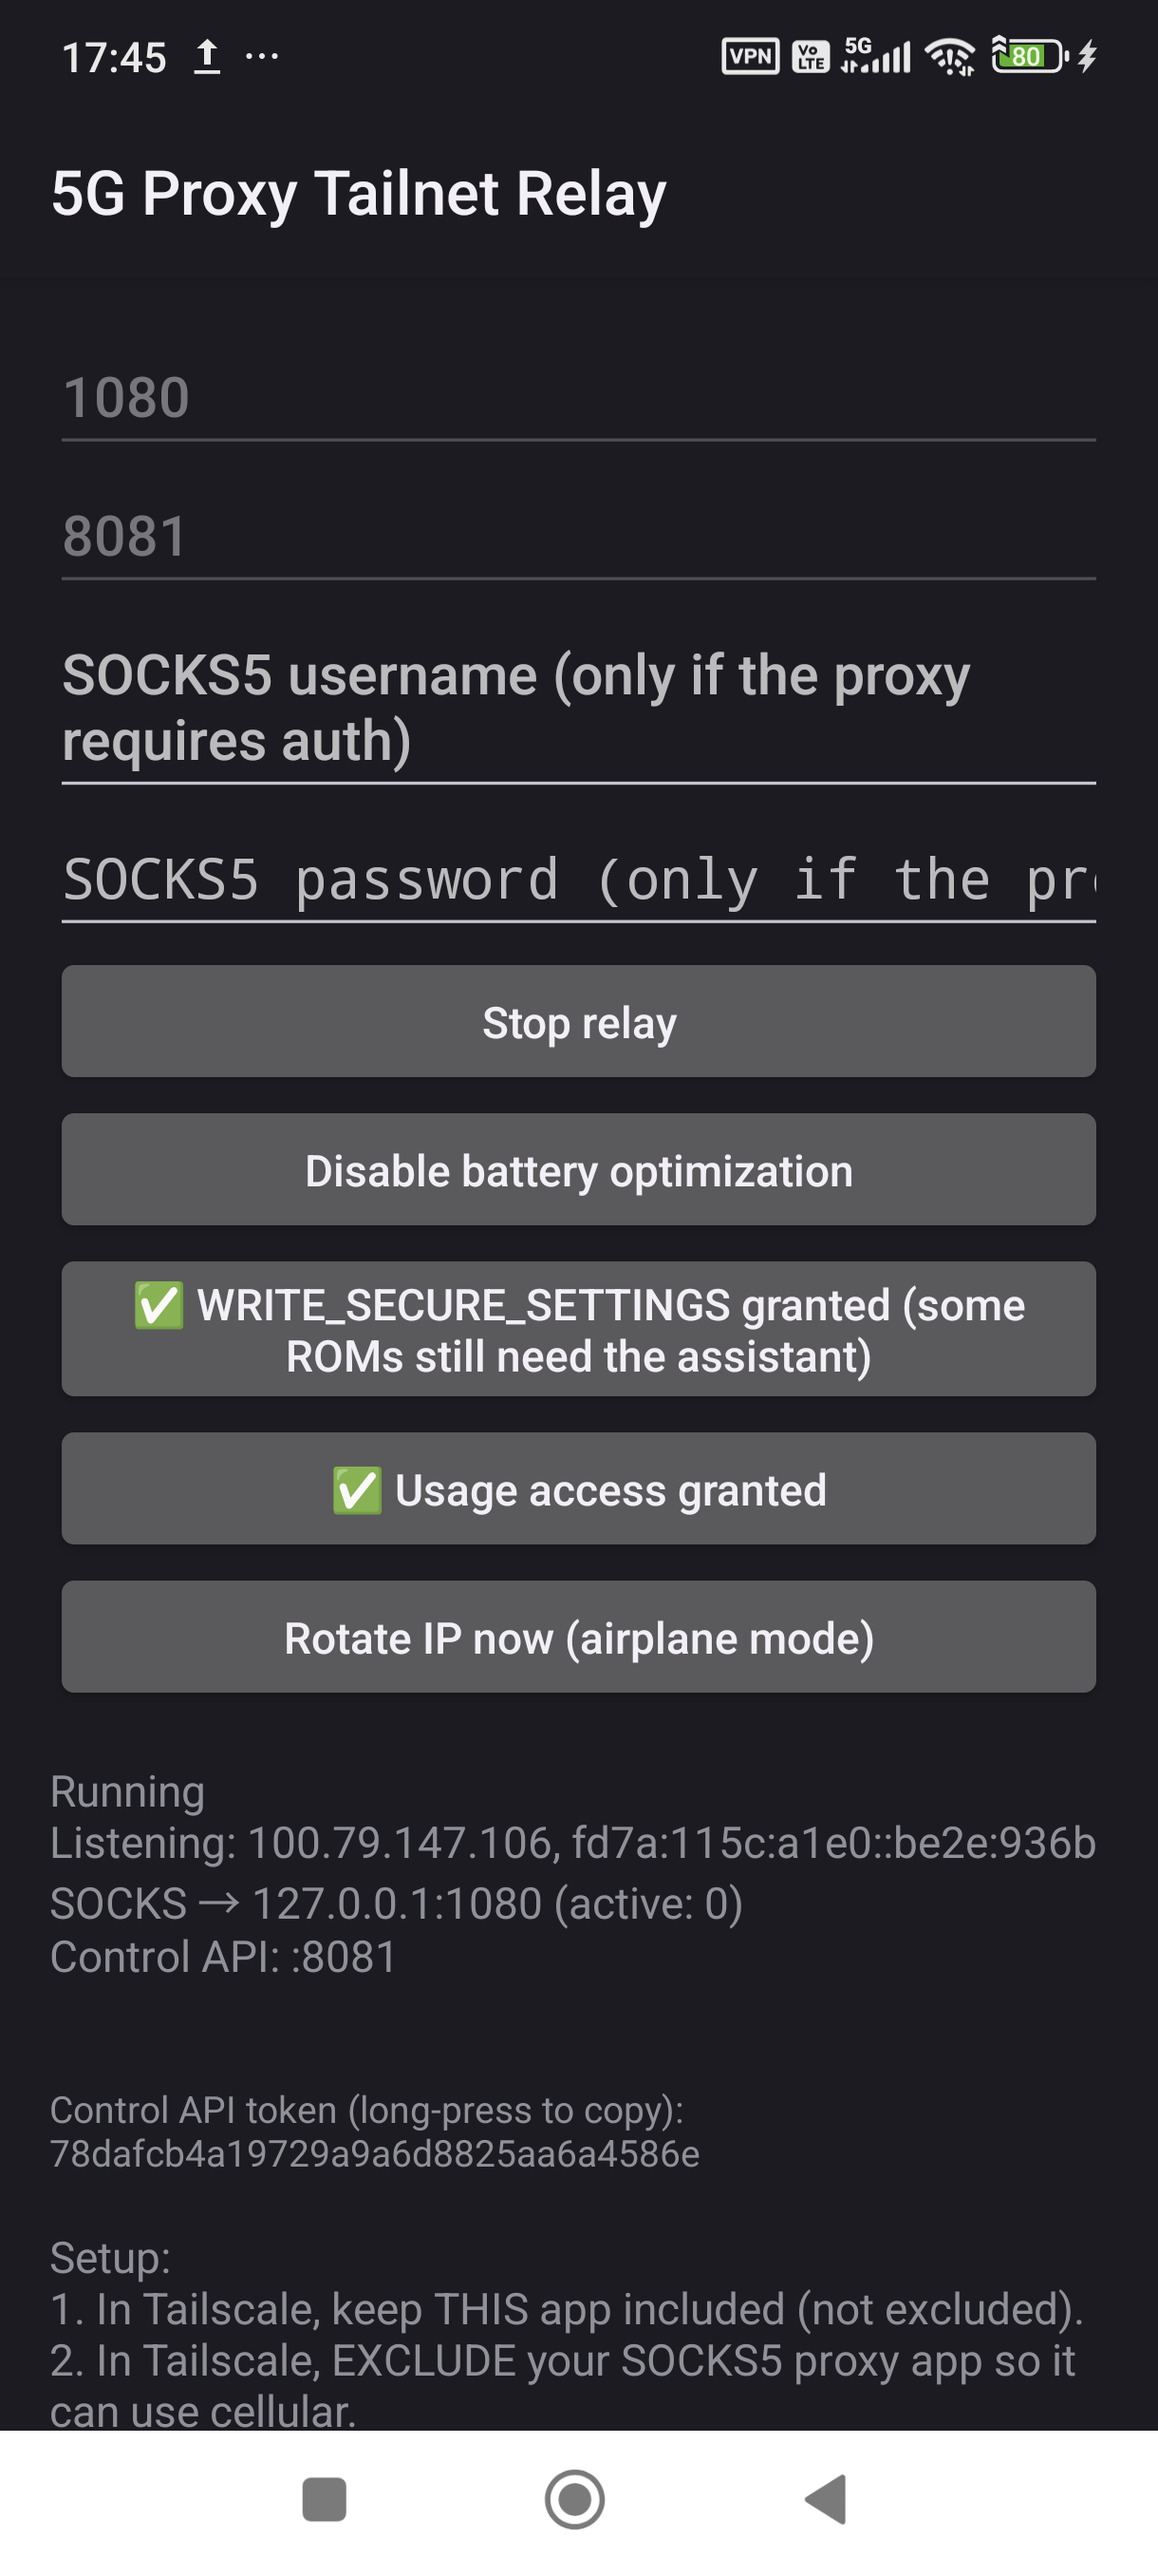
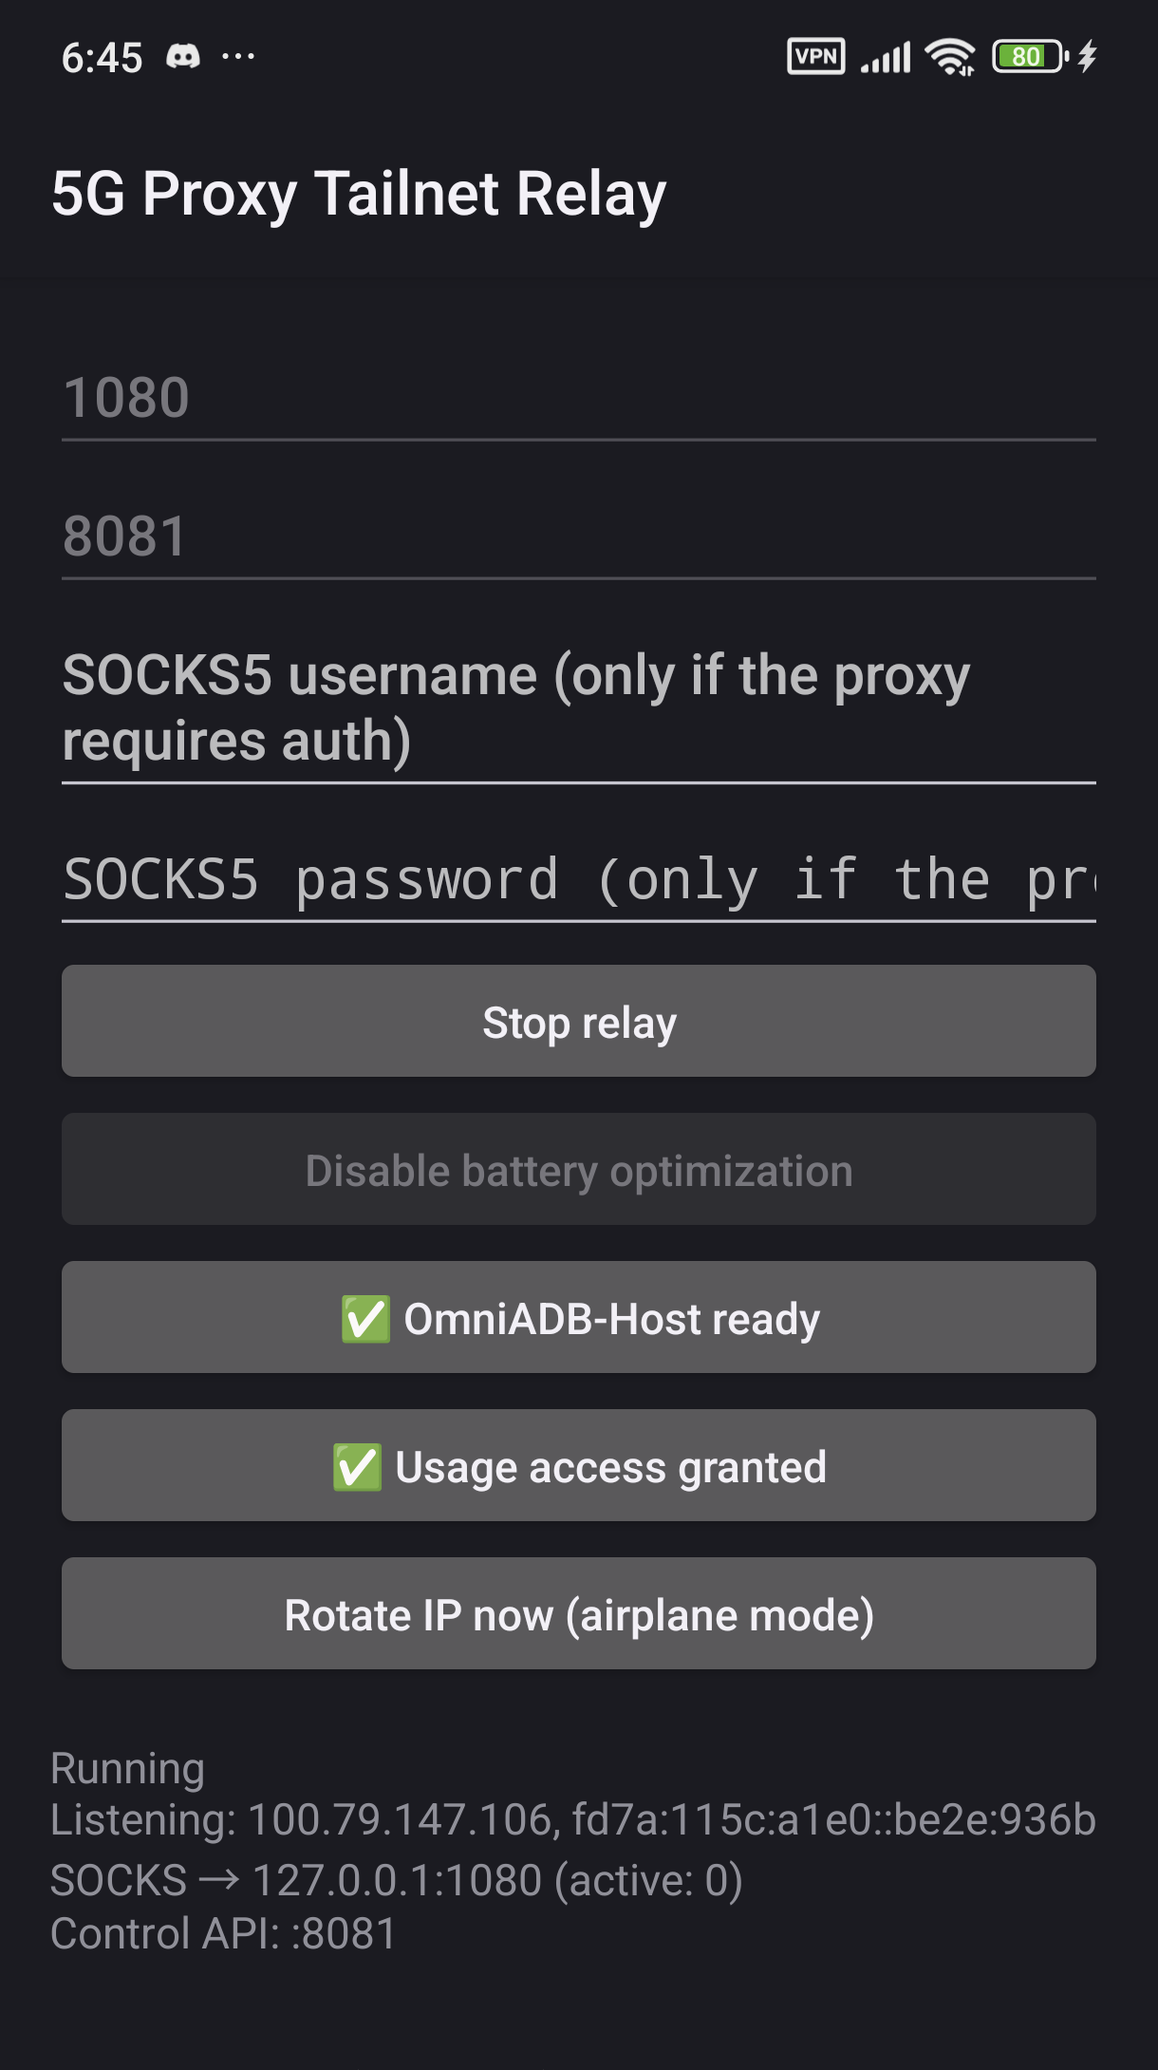
docs: 三語 README、實機截圖與 CI 建置流程
- README.md / README.zh-TW.md / README.ko.md 結構 1:1，三份都加上建議搭配 OmniADB-Host
- 換上小米 2412DPC0AG (Android 15) 的 1.2.3 實機截圖，真實 Listening 狀態
- 移除含舊控制 API 權杖的 2.png；截圖只保留狀態與按鈕區
- .github/workflows/build.yml：tag 觸發建置與發佈；未設 secrets 時只產 unsigned

diff --git a/README.ko.md b/README.ko.md
@@ -1,0 +1,113 @@
+# 5G Proxy — Tailnet Relay
+
+<p align="center">
+  <img src="fastlane/metadata/android/en-US/images/phoneScreenshots/1.png" width="320"
+       alt="릴레이 실행 중, Tailscale 주소에서 수신 대기">
+</p>
+
+<p align="center"><sub>스크린샷은 영어 UI 기준입니다. 앱 자체는 아직 한국어 UI를 제공하지 않습니다.</sub></p>
+
+Tailnet(Tailscale 또는 호환 클라이언트)에 연결된 어떤 기기에서든, 안드로이드 폰에서
+실행 중인 SOCKS5 프록시에 접속할 수 있게 해 주는 작은 컴패니언 앱입니다. 트래픽은
+집의 인터넷 회선이 아니라 폰의 **셀룰러** 회선으로 나갑니다.
+
+[5G Proxy Pro](https://github.com/tokyoxpa3/5G-Proxy-Pro)와 함께 쓰도록 만들어졌지만,
+업스트림은 폰에서 실행되는 **어떤** SOCKS5 프록시든 됩니다.
+
+## 왜 필요한가
+
+안드로이드의 per-app VPN은 UID 단위로 동작합니다. 폰에서 Tailscale 같은 클라이언트가
+돌고 있으면, 프록시 앱은 VPN에서 *제외*되어야 셀룰러 인터페이스로 나갈 수 있습니다.
+하지만 제외되는 순간 클라이언트의 `tun0`으로 들어오는 연결을 받을 수 없게 됩니다.
+
+Tailnet Relay가 그 빈자리를 채웁니다.
+
+```
+노트북 ──tailnet──▶ Relay (VPN 내부) ──127.0.0.1:1080──▶ 프록시 ──▶ 셀룰러
+```
+
+릴레이는 VPN 안에 남아 테일넷 주소에서 TCP를 받고, 프록시의 루프백 리스너로
+전달합니다. 두 앱은 각자의 UID를 유지하므로 프록시는 계속 셀룰러로 나가고, 트래픽은
+테더링 인터페이스를 거치지 않습니다.
+
+## 권장: OmniADB-Host와 함께 사용
+
+IP 로테이션을 쓰려면 [OmniADB-Host](https://github.com/tokyoxpa3/OmniADB-Host)를
+함께 설치하세요.
+
+없을 때 `/rotate`에는 두 가지 방법밖에 없습니다. 기본 디지털 어시스턴트를 넘겨주거나,
+`WRITE_SECURE_SETTINGS`에 의존하는 것인데 후자는 Android 15 이상에서 라디오를 끄지
+못합니다. OmniADB-Host가 있으면 릴레이는 고정된 네 가지 동작만 노출하는 좁은
+프로바이더(`airplane_on`, `airplane_off`, `grant_secure`, `ping`)를 호출합니다.
+덕분에 루트 없이, 어시스턴트를 빼앗지 않고, Wi-Fi도 끊지 않고 로테이션이 됩니다.
+
+OmniADB-Host는 범용 adb 셸이 아닙니다. 이 네 가지 메서드만 존재하고, 호출자 UID가
+이 앱의 패키지명과 일치해야 합니다. 설치되어 있지 않으면 릴레이는 조용히 나머지 두
+백엔드로 넘어갑니다.
+
+## 요구 사항
+
+- Android 8.0(API 26) 이상
+- 폰에 테일넷 클라이언트 (Tailscale, 또는 `100.64.0.0/10` /
+  `fd7a:115c:a1e0::/48`을 쓰는 호환 클라이언트)
+- 폰에서 SOCKS5 프록시가 수신 대기 중 (5G Proxy Pro는 기본값 `127.0.0.1:1080`)
+
+## 동작
+
+- 테일넷 주소에만 바인딩합니다(`tun*` + CGNAT 대역). 셀룰러나 LAN 인터페이스에는
+  절대 바인딩하지 않습니다.
+- TCP를 설정 가능한 로컬 SOCKS5 업스트림(기본 `127.0.0.1:1080`)으로 전달합니다.
+- 선택 사항인 HTTP 제어 API(`/status`, `/rotate`)를 제공하며, 베어러 토큰으로
+  보호합니다.
+- 선택 사항인 IP 로테이션: 비행기 모드를 전환해 모뎀이 다시 attach하도록 강제합니다.
+
+## 제한 사항
+
+- **TCP만 지원합니다.** 표준 UDP ASSOCIATE는 구현되어 있지 않아 QUIC, 일부 게임,
+  VoIP는 릴레이를 통과하지 못합니다. 유일한 UDP 경로는
+  [5G Proxy Client](https://github.com/tokyoxpa3/5G-Proxy-Client)가 쓰는 `0x04`
+  UDP-in-TCP 확장입니다.
+- 테일넷이 연결되어 있어야 하며, 폰은 항상 켜져 있고 신호가 있어야 합니다.
+- 모든 클라이언트가 폰의 셀룰러 IP 하나를 공유합니다.
+
+## IP 로테이션 백엔드
+
+`/rotate`는 다음 순서로 시도합니다.
+
+1. **OmniADB-Host** — 위에서 설명한 좁은 프로바이더. 우선 사용: 루트 불필요,
+   어시스턴트를 빼앗지 않음, Wi-Fi 유지.
+2. **`WRITE_SECURE_SETTINGS`** — 전환 중 Wi-Fi만 유지합니다. Android 15 이상에서는
+   라디오를 **전환하지 못합니다**.
+3. **기본 디지털 어시스턴트** — `ACTION_VOICE_CONTROL_AIRPLANE_MODE`. adb 없이
+   실제로 라디오를 전환할 수 있는 유일한 경로입니다.
+
+모든 시도는 기록된 설정값이 아니라 라디오 상태(`awaitRadio()`)로 검증합니다.
+
+## 제어 API
+
+```bash
+curl -H "Authorization: Bearer <token>" http://<tailnet-ip>:8081/status
+curl -H "Authorization: Bearer <token>" http://<tailnet-ip>:8081/rotate
+```
+
+토큰은 `?token=`으로도 전달할 수 있습니다. **토큰을 가진 사람은 폰을 네트워크에서
+끊을 수 있습니다.** 비밀로 취급하세요.
+
+## 빌드
+
+```bash
+./gradlew :app:assembleDebug
+```
+
+저장소 루트에 `keystore.properties`가 있을 때만 release 빌드에 서명합니다. 없으면
+서명되지 않은 APK가 출력됩니다.
+
+## 라이선스
+
+MIT — [LICENSE](LICENSE) 참고.
+
+## 크레딧
+
+릴레이는 원래 [@bokukpark](https://github.com/bokukpark) 님이
+[5G-Proxy-Pro#6](https://github.com/tokyoxpa3/5G-Proxy-Pro/pull/6)에서 기여했습니다.
+이 저장소는 그 히스토리와 저자 정보를 그대로 보존합니다.

diff --git a/README.md b/README.md
@@ -1,5 +1,10 @@
 # 5G Proxy — Tailnet Relay
 
+<p align="center">
+  <img src="fastlane/metadata/android/en-US/images/phoneScreenshots/1.png" width="320"
+       alt="Relay running, listening on a Tailscale address">
+</p>
+
 A small companion app that lets any device on your [Tailscale](https://tailscale.com)
 (or compatible) tailnet reach a SOCKS5 proxy running on an Android phone, so the
 traffic leaves through the phone's **cellular** connection instead of your home
@@ -25,6 +30,22 @@ The relay stays inside the VPN, accepts TCP on the tailnet address and forwards
 it to the proxy's loopback listener. The two apps keep separate UIDs, so the
 proxy keeps using the cellular exit and the traffic never touches the tethering
 interface.
+
+## Recommended: pair it with OmniADB-Host
+
+If you want IP rotation, install [OmniADB-Host](https://github.com/tokyoxpa3/OmniADB-Host)
+next to this app.
+
+Without it, `/rotate` has only two options: hand over your default digital
+assistant, or rely on `WRITE_SECURE_SETTINGS`, which cannot toggle the radio on
+Android 15 and newer. With OmniADB-Host installed, the relay calls a narrow
+provider that exposes four fixed actions — `airplane_on`, `airplane_off`,
+`grant_secure`, `ping` — so rotation works without root, without taking over the
+assistant, and without dropping Wi-Fi.
+
+OmniADB-Host is not a general adb shell: only those four methods exist, and the
+caller UID must match this app's package name. If the host is not installed, the
+relay silently falls back to the other two backends.
 
 ## Requirements
 
@@ -58,9 +79,8 @@ interface.
 
 `/rotate` tries the following, in order:
 
-1. **OmniADB-Host** — a narrow, fixed-action `ContentProvider`
-   (`ping`, `airplane_on`, `airplane_off`, `grant_secure`). The caller UID is
-   checked against this app's package name; it is not a general adb shell.
+1. **OmniADB-Host** — the narrow provider described above. Preferred: no root, no
+   assistant takeover, Wi-Fi stays up.
 2. **`WRITE_SECURE_SETTINGS`** — only keeps Wi-Fi alive during the toggle. On
    Android 15+ it does **not** switch the radio.
 3. **Default digital assistant** — `ACTION_VOICE_CONTROL_AIRPLANE_MODE`, the only

diff --git a/README.zh-TW.md b/README.zh-TW.md
@@ -1,5 +1,10 @@
 # 5G Proxy — Tailnet Relay
 
+<p align="center">
+  <img src="fastlane/metadata/android/zh-TW/images/phoneScreenshots/1.png" width="320"
+       alt="中繼執行中，在 Tailscale 位址上監聽">
+</p>
+
 一個小型的陪伴 App：讓 tailnet（Tailscale 或相容客戶端）上的任何裝置，連到手機上
 執行的 SOCKS5 代理，出口走手機的**行動網路**，而不是家裡的寬頻。
 
@@ -20,6 +25,19 @@ Tailnet Relay 就是補上這段：
 
 Relay 留在 VPN 內，在 tailnet 位址上接受 TCP，轉送到代理的 loopback 監聽。
 兩個 App 各自擁有獨立 UID，所以代理仍然走蜂巢出口，流量也從不經過熱點介面。
+
+## 建議搭配 OmniADB-Host
+
+如果要使用 IP 輪替，建議一併安裝
+[OmniADB-Host](https://github.com/tokyoxpa3/OmniADB-Host)。
+
+沒有它時，`/rotate` 只剩兩條路：把預設數位助理讓給這個 App，或依賴
+`WRITE_SECURE_SETTINGS`——而後者在 Android 15 以上切不動射頻。裝了 OmniADB-Host
+之後，中繼會呼叫一個只開放四個固定動作的窄介面（`airplane_on`、`airplane_off`、
+`grant_secure`、`ping`），所以不需要 root、不會搶走助理、Wi-Fi 也不會斷。
+
+OmniADB-Host 不是通用 adb shell：只有這四個 method，而且呼叫端 UID 必須符合
+本 App 的套件名。沒安裝時，中繼會安靜地退回另外兩種後端。
 
 ## 需求
 
@@ -47,9 +65,7 @@ Relay 留在 VPN 內，在 tailnet 位址上接受 TCP，轉送到代理的 loop
 
 `/rotate` 依序嘗試：
 
-1. **OmniADB-Host** — 窄介面、固定動作的 `ContentProvider`
-   （`ping`、`airplane_on`、`airplane_off`、`grant_secure`）。以呼叫端 UID
-   比對本 App 的套件名，不是通用 adb shell。
+1. **OmniADB-Host** — 上面說的窄介面。首選：不需要 root、不搶助理、Wi-Fi 不斷。
 2. **`WRITE_SECURE_SETTINGS`** — 只讓切換期間 Wi-Fi 不斷。Android 15+ 上
    它**不會**切換射頻。
 3. **預設數位助理** — `ACTION_VOICE_CONTROL_AIRPLANE_MODE`，不靠 adb 時
